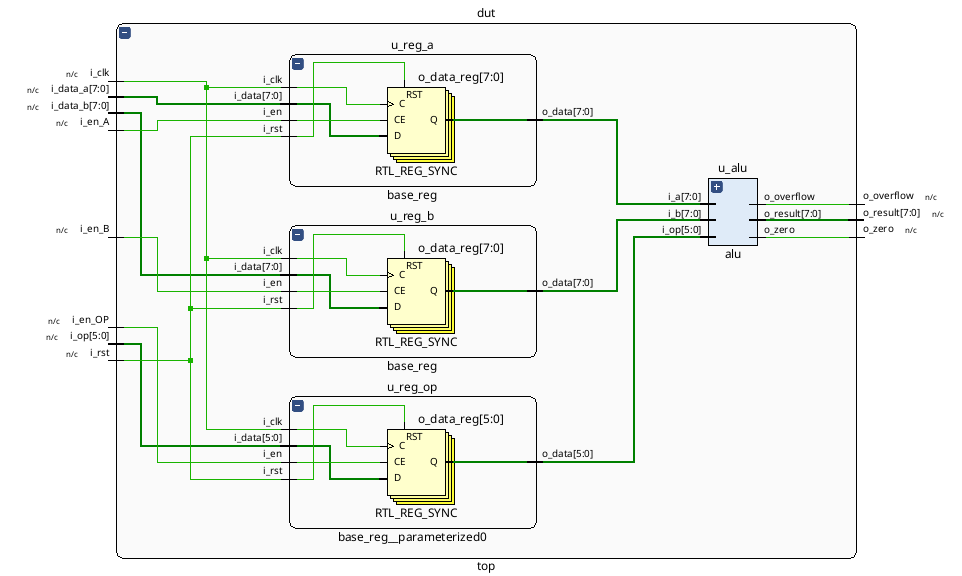
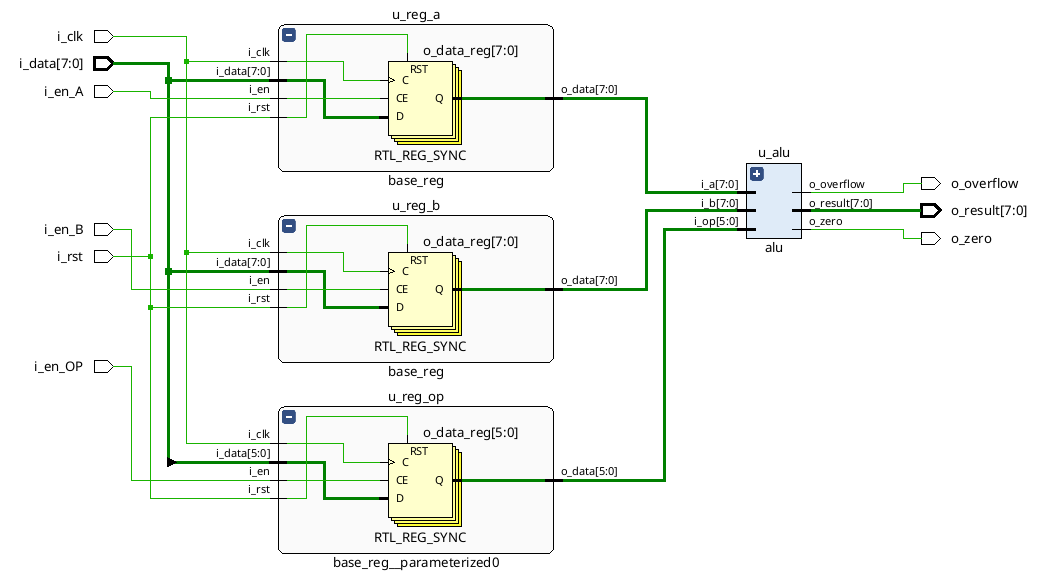
Refactor top module to unify data input; update README and constraints for Basys3 support

diff --git a/README.md b/README.md
@@ -18,6 +18,7 @@ Este proyecto implementa una **ALU (Arithmetic Logic Unit)** completa en Verilog
 El proyecto está estructurado en tres módulos principales:
 
 ### 1. 🧮 Módulo ALU (`alu.v`)
+
 - **Entrada**: Dos operandos de N bits + código de operación
 - **Salida**: Resultado de N bits + flags de estado
 - **Operaciones soportadas**:
@@ -31,6 +32,7 @@ El proyecto está estructurado en tres módulos principales:
   - `SRL` (000010): Shift lógico a la derecha
 
 ### 2. 📝 Módulo Registro Base (`base_reg.v`)
+
 - **Función**: Almacenamiento temporal de datos
 - **Características**: 
   - Enable de escritura independiente
@@ -38,8 +40,14 @@ El proyecto está estructurado en tres módulos principales:
   - Ancho parametrizable
 
 ### 3. 🔗 Módulo TOP (`top.v`)
+
 - **Función**: Integración completa del sistema
 - **Componentes**: 3 registros base (2 operandos y 1 opcode) + 1 ALU
+- **Interface**: Entrada multipropósito de 8 bits con control de carga independiente
+- **Características especiales**:
+  - **Entrada única**: `i_data[7:0]` sirve para cargar datos A, B y operación
+  - **Control por enables**: Cada enable determina qué registro se actualiza
+  - **Operación de 6 bits**: Solo los 6 LSB se usan para el código de operación
 - **Interface**: Control de carga independiente para cada operando y operación
 
 ## ⚙ Esquemático
@@ -47,11 +55,13 @@ El proyecto está estructurado en tres módulos principales:
 A continuación se presentan los diagramas esquemáticos de los módulos principales del proyecto:
 
 ### Esquemático del Módulo ALU
+
 ![Esquemático ALU](docs/alu.png)
 
 El diagrama muestra la estructura interna de la ALU con sus entradas, salidas y la lógica de selección de operaciones.
 
 ### Esquemático del Módulo TOP
+
 ![Esquemático TOP](docs/top.png)
 
 El diagrama presenta la integración completa del sistema, mostrando cómo se conectan los registros base con la ALU para formar el módulo TOP.
@@ -74,7 +84,77 @@ git clone https://github.com/iledesma08/ALU.git
 cd ALU
 ```
 
-## 🧪 Guía de Uso
+## 🔧 Implementación en Hardware (Basys3)
+
+El proyecto incluye un archivo de constraints (`constraints/basys3.xdc`) configurado para la placa Basys3 FPGA:
+
+### 🎛 Mapeo de Pines
+
+- **Clock**: 100MHz del sistema (pin W5)
+- **Reset**: Botón central (btnC - pin U18)
+- **Datos**: 8 switches (SW7-SW0) como entrada multipropósito
+- **Controles**:
+  - `i_en_A`: Botón superior (btnU - pin T18)
+  - `i_en_B`: Botón izquierdo (btnL - pin W19)
+  - `i_en_OP`: Botón derecho (btnR - pin T17)
+- **Resultados**: LEDs LD7-LD0 para el resultado de 8 bits
+- **Flags**: LD8 (zero), LD9 (overflow)
+
+### 🚀 Modo de Uso en Hardware
+
+1. **Configurar operando A**: Ajustar switches SW7-SW0 y presionar btnU
+2. **Configurar operando B**: Ajustar switches SW7-SW0 y presionar btnL  
+3. **Configurar operación**: Ajustar switches SW5-SW0 con el código de operación y presionar btnR
+4. **Ver resultado**: Los LEDs LD7-LD0 muestran el resultado, LD8 indica zero, LD9 indica overflow
+5. **Reset**: Presionar btnC para reiniciar todos los registros
+
+### 🛠 Guía de Implementación en Vivado
+
+Sigue estos pasos para sintetizar e implementar el proyecto en la placa Basys3 usando Xilinx Vivado:
+
+#### 1. **Crear Nuevo Proyecto**
+
+- **File** → **New Project**
+- Nombre: `ALU_Basys3`
+- **Next** → **RTL Project** → **Next**
+
+#### 2. **Agregar Archivos Fuente**
+
+- **Add Sources** → **Add or create design sources**
+- Agregar archivos en este orden:
+  - `src/base_reg.v`
+  - `src/alu.v` 
+  - `src/top.v` (marcar como **top module**)
+
+#### 3. **Agregar Constraints**
+
+- **Add Sources** → **Add or create constraints**
+- Agregar: `constraints/basys3.xdc`
+
+#### 4. **Configurar Dispositivo**
+
+- **Project Settings** → **Project Device**
+- Seleccionar: **xc7a35tcpg236-1** (Basys3)
+
+#### 5. **Síntesis e Implementación**
+
+1. **Run Synthesis** (esperar completion)
+2. **Run Implementation** (esperar completion)
+3. **Generate Bitstream**
+
+#### 6. **Programar FPGA**
+
+- Conectar la placa Basys3 via USB
+- **Open Hardware Manager**
+- **Auto Connect**
+- **Program Device** → seleccionar el archivo `.bit` generado
+
+#### 7. **Verificación**
+
+- Los switches y botones deberían controlar la ALU según el mapeo definido
+- Los LEDs mostrarán el resultado y flags en tiempo real
+
+## 🧪 Testbench
 
 ### Script de Simulación
 
@@ -97,7 +177,7 @@ El script `test.sh` automatiza todo el proceso:
 4. **Resultados**: Muestra los resultados en tiempo real
 5. **Cleanup**: Limpia archivos temporales automáticamente
 
-## 📊 Casos de Prueba
+### Casos de Prueba
 
 El testbench automatizado incluye:
 
@@ -108,7 +188,7 @@ El testbench automatizado incluye:
 - **Validación de flags** (zero, overflow)
 - **Reporte detallado** de pass/fail por test
 
-### Ejemplo de Salida de Test
+#### Ejemplo de Salida de Test
 
 ```text
 TESTBENCH para módulo TOP - ALU con registros
@@ -137,8 +217,13 @@ ALU/
 │   └── top.v                  # Módulo de integración
 ├── 📂 test/                   # Testing y validación
 │   └── test_top.v             # Testbench principal
+├── 📂 docs/                   # Documentación y esquemáticos
+│   ├── alu.png                # Esquemático del módulo ALU
+│   └── top.png                # Esquemático del módulo TOP
+├── 📂 constraints/            # Archivos de constraints para FPGA
+│   └── basys3.xdc            # Constraints para placa Basys3
 ├── 📄 test.sh                 # Script de simulación automatizado
-├── � .gitignore              # Archivos ignorados por Git
+├── 📄 .gitignore              # Archivos ignorados por Git
 ├── 📄 LICENSE                 # Licencia del proyecto
 └── 📄 README.md               # Esta documentación
 ```
@@ -156,13 +241,6 @@ top #(
     // ... conexiones ...
 );
 ```
-
-### Agregar Nuevas Operaciones
-
-1. Definir nuevo código de operación en `alu.v`
-2. Implementar lógica en el bloque `always`
-3. Actualizar testbench con casos de prueba
-4. Ejecutar tests de validación
 
 ## 🤝 Contribuciones
 
@@ -192,6 +270,56 @@ top #(
 - **Naming**: `snake_case` para señales, `UPPER_CASE` para parámetros
 - **Comentarios**: Documenta bloques complejos y parámetros
 - **Modularidad**: Mantén módulos pequeños y cohesivos
+
+### ➕ Agregar Nuevas Operaciones
+
+1. Definir nuevo código de operación en `alu.v`
+2. Implementar lógica en el bloque `always`
+3. Actualizar testbench con casos de prueba
+4. Ejecutar tests de validación
+
+### 🔌 Soporte para Otras FPGAs
+
+Para agregar soporte a otras placas FPGA, crea nuevos archivos de constraints:
+
+#### **Proceso de Adaptación**
+
+1. **Crear archivo de constraints**:
+   ```bash
+   # Ejemplo para otras placas
+   touch constraints/arty_a7.xdc      # Para Arty A7
+   touch constraints/zybo_z7.xdc      # Para Zybo Z7
+   touch constraints/nexys4_ddr.xdc   # Para Nexys 4 DDR
+   ```
+
+2. **Mapear pines específicos**:
+   - Consultar el manual de la placa objetivo
+   - Identificar pines de switches, botones, LEDs y clock
+   - Adaptar el mapeo manteniendo la funcionalidad
+
+3. **Ejemplo de adaptación**:
+   ```verilog
+   ## Para Arty A7 - Ejemplo de mapeo alternativo
+   ## Clock 100MHz
+   set_property -dict { PACKAGE_PIN E3    IOSTANDARD LVCMOS33 } [get_ports i_clk]
+   
+   ## Switches (4 disponibles en Arty A7)
+   set_property -dict { PACKAGE_PIN A8    IOSTANDARD LVCMOS33 } [get_ports {i_data[0]}]
+   set_property -dict { PACKAGE_PIN C11   IOSTANDARD LVCMOS33 } [get_ports {i_data[1]}]
+   # ... continuar con pines disponibles
+   ```
+
+4. **Documentar cambios**:
+   - Actualizar README con nueva placa soportada
+   - Incluir diagrama de pines si es necesario
+   - Agregar instrucciones específicas de la placa
+
+#### **Guidelines para Nuevos Constraints**
+
+- **Naming**: `constraints/[nombre_placa].xdc`
+- **Comentarios**: Documentar cada sección de pines
+- **Compatibilidad**: Mantener nombres de señales consistentes
+- **Testing**: Verificar que los constraints compilan sin errores
 
 ## 📄 Licencia
 
